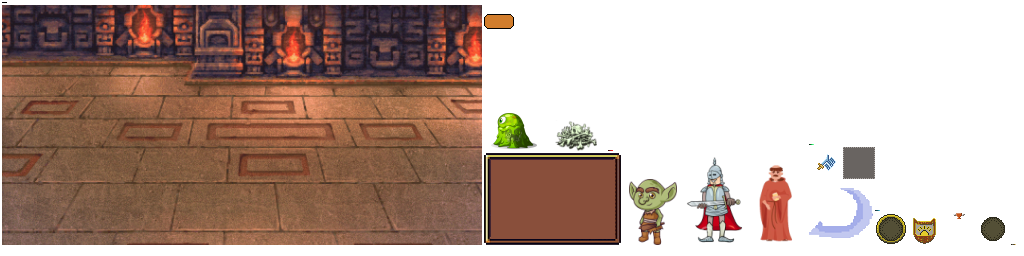
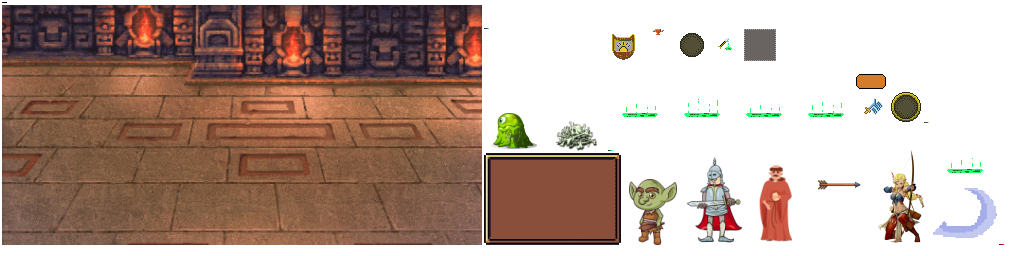
add poison archer

diff --git a/android/battle/src/main/java/com/game7th/battle/personage/PersonageAbility.kt b/android/battle/src/main/java/com/game7th/battle/personage/PersonageAbility.kt
@@ -1,8 +1,7 @@
 package com.game7th.battle.ability
 
-import com.game7th.battle.DamageVector
-import com.game7th.battle.EfficencyCalculator
-import com.game7th.battle.SwipeBattle
+import com.game7th.battle.*
+//import com.game7th.battle.ailment.Ailment
 import com.game7th.battle.balance.SwipeBalance
 import com.game7th.battle.event.BattleEvent
 import com.game7th.battle.personage.SwipePersonage
@@ -10,8 +9,7 @@ import com.game7th.battle.tilefield.TileField
 import com.game7th.battle.tilefield.tile.SwipeTile
 import com.game7th.battle.tilefield.tile.TileStage
 import com.game7th.battle.tilefield.tile.TileType
-import com.game7th.battle.toViewModel
-import kotlin.random.Random
+import kotlin.math.sqrt
 
 abstract class PersonageAbility(
         val skin: String
@@ -21,6 +19,66 @@ abstract class PersonageAbility(
     abstract fun mergeTile(balance: SwipeBalance, tileField: TileField, tile1: SwipeTile, tile2: SwipeTile): SwipeTile?
 
     abstract suspend fun attemptUseAbility(battle: SwipeBattle, personage: SwipePersonage, tileField: TileField, position: Int, tile: SwipeTile): Boolean
+}
+
+class PoisionArrow(balance: SwipeBalance): PersonageAbility("skill_tile_poison_arrow") {
+
+    override fun processEmit(isGuaranteed: Boolean, balance: SwipeBalance, tileField: TileField, personage: SwipePersonage): List<BattleEvent> {
+        val result = mutableListOf<BattleEvent>()
+        val amount = if (isGuaranteed) 1 else EfficencyCalculator.calculateStackSize(balance, personage.stats.level, personage.stats.effectiveness)
+        val isProc = amount > 0
+        if (isProc) {
+            val position: Int? = tileField.calculateFreePosition()
+            position?.let { position ->
+                val tile = SwipeTile(TileType.POISON_ARROW, tileField.newTileId(), amount, TileStage.ABILITY_TIER_0)
+                tileField.tiles[position] = tile
+                result.add(BattleEvent.CreateTileEvent(tile.toViewModel(), position))
+            }
+        }
+        return result
+    }
+
+    override fun mergeTile(balance: SwipeBalance, tileField: TileField, tile1: SwipeTile, tile2: SwipeTile): SwipeTile? {
+        if (tile1.type != TileType.POISON_ARROW || tile2.type != TileType.POISON_ARROW) return null
+        val stackSize = tile1.stackSize + tile2.stackSize
+        val tier = when {
+            stackSize > balance.defaultTier2Threshold -> TileStage.ABILITY_TIER_2
+            stackSize > balance.defaultTier1Threshold -> TileStage.ABILITY_TIER_1
+            else -> TileStage.ABILITY_TIER_0
+        }
+        return SwipeTile(TileType.POISON_ARROW, tile2.id, stackSize, tier)
+    }
+
+    override suspend fun attemptUseAbility(battle: SwipeBattle, personage: SwipePersonage, tileField: TileField, position: Int, tile: SwipeTile): Boolean {
+        if (tile.type == TileType.POISON_ARROW) {
+            when (tile.stage) {
+                TileStage.ABILITY_TIER_1,
+                TileStage.ABILITY_TIER_2 -> {
+                    tileField.removeById(tile.id)
+                    battle.notifyTileRemoved(tile.id)
+
+                    val b = battle.balance
+                    val target = battle.aliveNpcs().random().value
+                    val damage = (b.poisonArcherAtkTier1Const
+                            * (1 + b.poisonArcherAtkTier1LvlKoef * personage.stats.level + b.poisonArcherAtkTier1SpiritKoef * personage.stats.spirit)
+                            * (1+tile.stackSize * b.poisonArcherTier1TileKoef)).toInt()
+                    val result = battle.processDamage(target, personage, DamageVector(damage, 0, 0))
+                    battle.notifyTargetedProjectile("projectile_arrow", personage, target)
+
+                    if (result.status != DamageProcessStatus.DAMAGE_EVADED) {
+                        //we poison this shit
+                        val poisonTicks = b.poisonArcherPoisonDuration
+                        val poisonDmg = (b.poisonArcherDotKoef * damage * sqrt(b.poisonArcherTier1TileKoef * tile.stackSize)).toInt()
+                        battle.applyPoison(target, poisonTicks, poisonDmg)
+                    }
+
+                    return true
+                }
+            }
+        }
+        return false
+    }
+
 }
 
 class GladiatorStrike(balance: SwipeBalance): PersonageAbility("skill_tile_holy_strike") {

diff --git a/android/battle/src/main/java/com/game7th/battle/SwipeBattle.kt b/android/battle/src/main/java/com/game7th/battle/SwipeBattle.kt
@@ -156,17 +156,27 @@ class SwipeBattle(val balance: SwipeBalance) {
                 it.value.stats.health = min(it.value.stats.maxHealth, it.value.stats.health + it.value.stats.regeneration)
                 events.send(BattleEvent.PersonageUpdateEvent(it.value.toViewModel()))
             }
+
         }
         aliveNpcs().forEach {
             if (it.value.stats.regeneration > 0 && it.value.stats.health < it.value.stats.maxHealth) {
                 it.value.stats.health = min(it.value.stats.maxHealth, it.value.stats.health + it.value.stats.regeneration)
                 events.send(BattleEvent.PersonageUpdateEvent(it.value.toViewModel()))
             }
+            val personage = it.value
+            if (personage.ailments.poisonDuration > 0) {
+                personage.ailments.poisonDuration--
+                processAilmentDamage(personage, DamageVector(0, 0, personage.ailments.poisonDamage))
+                events.send(BattleEvent.ShowAilmentEffect(personage.id, "effect_poision"))
+                if (personage.ailments.poisonDuration == 0) {
+                    personage.ailments.poisonDamage = 0
+                }
+            }
         }
     }
 
-    private fun alivePersonages() = personages.entries.filter { it.value.stats.health > 0 }
-    private fun aliveNpcs() = npcs.entries.filter { it.value.stats.health > 0 }
+    fun alivePersonages() = personages.entries.filter { it.value.stats.health > 0 }
+    fun aliveNpcs() = npcs.entries.filter { it.value.stats.health > 0 }
 
     suspend fun notifyAttack(personage: NpcPersonage, target: SwipePersonage) {
         events.send(BattleEvent.PersonageAttackEvent(personage.toViewModel(), target.toViewModel()))
@@ -189,7 +199,7 @@ class SwipeBattle(val balance: SwipeBalance) {
         }
     }
 
-    suspend fun processDamage(target: NpcPersonage, source: SwipePersonage, damage: DamageVector) {
+    suspend fun processDamage(target: NpcPersonage, source: SwipePersonage, damage: DamageVector): DamageProcessResult {
         val damage = DamageCalculator.calculateDamage(balance, source.stats, target.stats, damage)
         val totalDamage = damage.damage.totalDamage()
         if (totalDamage > 0 || damage.armorDeplete > 0 || damage.resistDeplete > 0) {
@@ -200,6 +210,12 @@ class SwipeBattle(val balance: SwipeBalance) {
         } else if (damage.status == DamageProcessStatus.DAMAGE_EVADED) {
             events.send(BattleEvent.PersonageDamageEvadedEvent(target.toViewModel()))
         }
+        return damage
+    }
+
+    suspend fun processAilmentDamage(target: NpcPersonage, damage: DamageVector) {
+        target.stats.health = max(0, target.stats.health - damage.totalDamage())
+        events.send(BattleEvent.PersonageDamageEvent(target.toViewModel(), damage.totalDamage()))
     }
 
     fun findClosestAlivePersonage(): SwipePersonage? {
@@ -212,6 +228,16 @@ class SwipeBattle(val balance: SwipeBalance) {
 
     suspend fun notifyAoeProjectile(skin: String, personage: SwipePersonage) {
         events.send(BattleEvent.ShowNpcAoeEffect(skin, personage.id))
+    }
+
+    suspend fun notifyTargetedProjectile(skin: String, personage: SwipePersonage, target: NpcPersonage) {
+        events.send(BattleEvent.ShowProjectile(skin, personage.id, target.id))
+    }
+
+    suspend fun applyPoison(target: NpcPersonage, poisonTicks: Int, poisonDmg: Int) {
+        target.ailments.poisonDamage += poisonDmg
+        target.ailments.poisonDuration += poisonTicks
+        events.send(BattleEvent.ShowAilmentEffect(target.id, "effect_poision"))
     }
 }
 

diff --git a/android/core/src/com/game7th/swipe/game/actors/BattleView.kt b/android/core/src/com/game7th/swipe/game/actors/BattleView.kt
@@ -5,7 +5,6 @@ import com.badlogic.gdx.scenes.scene2d.actions.*
 import com.badlogic.gdx.scenes.scene2d.ui.Image
 import com.game7th.battle.event.BattleEvent
 import com.game7th.swipe.GdxGameContext
-import kotlinx.coroutines.delay
 import ktx.actors.alpha
 import ktx.actors.centerPosition
 
@@ -110,6 +109,45 @@ class BattleView(private val gameContext: GdxGameContext) : Group() {
                 }
 
                 effectsForeground.addActor(projectileImage)
+            }
+            is BattleEvent.ShowProjectile -> {
+                val projectileImage = Image(gameContext.atlas.findRegion(event.skin))
+                val sourceActor = personages.findActor<PersonageActor>("${event.sourceId}")
+                val targetActor = personages.findActor<PersonageActor>("${event.targetId}")
+                effectsForeground.addActor(projectileImage)
+                projectileImage.apply {
+                    x = sourceActor.x
+                    y = sourceActor.y +50f
+                    addAction(SequenceAction(
+                            MoveToAction().apply {
+                                setPosition(targetActor.x, targetActor.y)
+                                duration = 0.2f
+                            },
+                            RunnableAction().apply {
+                                setRunnable {
+                                    projectileImage.clearActions()
+                                    projectileImage.remove()
+                                }
+                            }
+                    ))
+                }
+            }
+            is BattleEvent.ShowAilmentEffect -> {
+                val effectImage = Image(gameContext.atlas.findRegion(event.effectSkin, 0))
+                val targetActor = personages.findActor<PersonageActor>("${event.target}")
+                effectImage.apply {
+                    x = targetActor.x
+                    y = targetActor.y + 50f
+                }
+                effectsForeground.addActor(effectImage)
+                effectImage.addAction(DelayAction(0.1f).apply {
+                    action = RunnableAction().apply {
+                        setRunnable {
+                            effectImage.clearActions()
+                            effectImage.remove()
+                        }
+                    }
+                })
             }
         }
     }

diff --git a/android/battle/src/main/java/com/game7th/battle/personage/PersonageFactory.kt b/android/battle/src/main/java/com/game7th/battle/personage/PersonageFactory.kt
@@ -35,6 +35,25 @@ object PersonageFactory {
                         magicDefense,
                         config.level))
             }
+            "poison_archer" -> {
+                val hp = balance.personageHealthBase + balance.personageBodyMultiply * tertiaryStatTotal + balance.personageLevelMultiply * (config.level-1)
+                val armor = tertiaryStatTotal * balance.personageArmorPerBodyMultiply
+                val magicDefense = secondaryStatTotal * balance.personageMagicDefPerMindMultiply
+                return PoisonArcher(id, balance, PersonageStats(
+                        tertiaryStatTotal,
+                        hp,
+                        hp,
+                        armor,
+                        armor,
+                        primaryStatTotal,
+                        (balance.personageRegenerationPerBodyMultiply * primaryStatTotal).toInt(),
+                        secondaryStatTotal,
+                        secondaryStatTotal,
+                        secondaryStatTotal,
+                        magicDefense,
+                        magicDefense,
+                        config.level))
+            }
             else -> null
         }
     }

diff --git a/android/battle/src/main/java/com/game7th/battle/personage/SwipePersonage.kt b/android/battle/src/main/java/com/game7th/battle/personage/SwipePersonage.kt
@@ -2,6 +2,7 @@ package com.game7th.battle.personage
 
 import com.game7th.battle.ability.GladiatorStrike
 import com.game7th.battle.ability.PersonageAbility
+import com.game7th.battle.ability.PoisionArrow
 import com.game7th.battle.balance.SwipeBalance
 
 sealed class SwipePersonage(
@@ -16,3 +17,9 @@ class Gladiator(
         balance: SwipeBalance,
         stats: PersonageStats
 ) : SwipePersonage(id, "p_gladiator", stats, listOf(GladiatorStrike(balance)))
+
+class PoisonArcher(
+        id: Int,
+        balance: SwipeBalance,
+        stats: PersonageStats
+) : SwipePersonage(id, "personage_ranger", stats, listOf(PoisionArrow(balance)))

diff --git a/android/core/src/com/game7th/swipe/constructor/ConstructorView.kt b/android/core/src/com/game7th/swipe/constructor/ConstructorView.kt
@@ -24,7 +24,7 @@ class ConstructorView(
 
     val mode = ConstructorMode.PERSONAGES
 
-    val personageCodenames = listOf("gladiator")
+    val personageCodenames = listOf("gladiator", "poison_archer")
     val npcCodenames = listOf("slime")
 
     var selector: PersonageSelector? = null
@@ -168,6 +168,7 @@ class ConstructorView(
         fun getSkin(codename: String): String {
             return when (codename) {
                 "gladiator" -> "p_gladiator"
+                "poison_archer" -> "personage_ranger"
                 "slime" -> "personage_slime"
                 else -> "personage_dead"
             }

diff --git a/android/battle/src/main/java/com/game7th/battle/balance/SwipeBalance.kt b/android/battle/src/main/java/com/game7th/battle/balance/SwipeBalance.kt
@@ -29,5 +29,13 @@ data class SwipeBalance(
         val gladiatorAtkTier1DmgConst: Int,
         val gladiatorAtkTier1LvlKoef: Float,
         val gladiatorAtkTier1StrKoef: Float,
-        val gladiatorAtkTIer1TileKoef: Float
+        val gladiatorAtkTIer1TileKoef: Float,
+
+        val poisonArcherAtkTier1Const: Int,
+        val poisonArcherAtkTier1LvlKoef: Float,
+        val poisonArcherAtkTier1SpiritKoef: Float,
+        val poisonArcherTier1TileKoef: Float,
+        val poisonArcherDotKoef: Float,
+        val poisonArcherTileMultiplier: Float,
+        val poisonArcherPoisonDuration: Int
 )

diff --git a/android/battle/src/main/java/com/game7th/battle/npc/NpcPersonage.kt b/android/battle/src/main/java/com/game7th/battle/npc/NpcPersonage.kt
@@ -1,5 +1,6 @@
 package com.game7th.battle.npc
 
+import com.game7th.battle.ailment.Ailments
 import com.game7th.battle.personage.PersonageStats
 import com.game7th.battle.personage.PersonageViewModel
 
@@ -7,9 +8,9 @@ abstract class NpcPersonage(
         val skin: String,
         val id: Int,
         val stats: PersonageStats,
-        val abilities: List<NpcAbility>
-) {
-}
+        val abilities: List<NpcAbility>,
+        val ailments: Ailments = Ailments()
+)
 
 fun NpcPersonage.toViewModel(): PersonageViewModel {
     return PersonageViewModel(stats.copy(), skin, id)

diff --git a/android/battle/src/main/java/com/game7th/battle/event/BattleEvent.kt b/android/battle/src/main/java/com/game7th/battle/event/BattleEvent.kt
@@ -60,6 +60,17 @@ sealed class BattleEvent {
             val personageId: Int
     ) : BattleEvent()
 
+    data class ShowProjectile(
+            val skin: String,
+            val sourceId: Int,
+            val targetId: Int
+    ) : BattleEvent()
+
+    data class ShowAilmentEffect(
+            val target: Int,
+            val effectSkin: String
+    ) : BattleEvent()
+
     object VictoryEvent: BattleEvent()
     object DefeatEvent : BattleEvent()
 }

diff --git a/android/battle/src/main/java/com/game7th/battle/tilefield/tile/TileType.kt b/android/battle/src/main/java/com/game7th/battle/tilefield/tile/TileType.kt
@@ -7,6 +7,7 @@ enum class TileType(
 ) {
 
     GLADIATOR_STRIKE("skill_tile_holy_strike", Fraction.EMPIRE, true),
+    POISON_ARROW("skill_tile_poison_arrow", Fraction.EMPIRE, true),
     KNIGHT_SHIELD("kn_shield", Fraction.EMPIRE, false)
 
 }

diff --git a/android/battle/src/main/java/com/game7th/battle/ailment/Ailment.kt b/android/battle/src/main/java/com/game7th/battle/ailment/Ailment.kt
@@ -1,0 +1,6 @@
+package com.game7th.battle.ailment
+
+data class Ailments(
+        var poisonDuration: Int = 0,
+        var poisonDamage: Int = 0
+)
